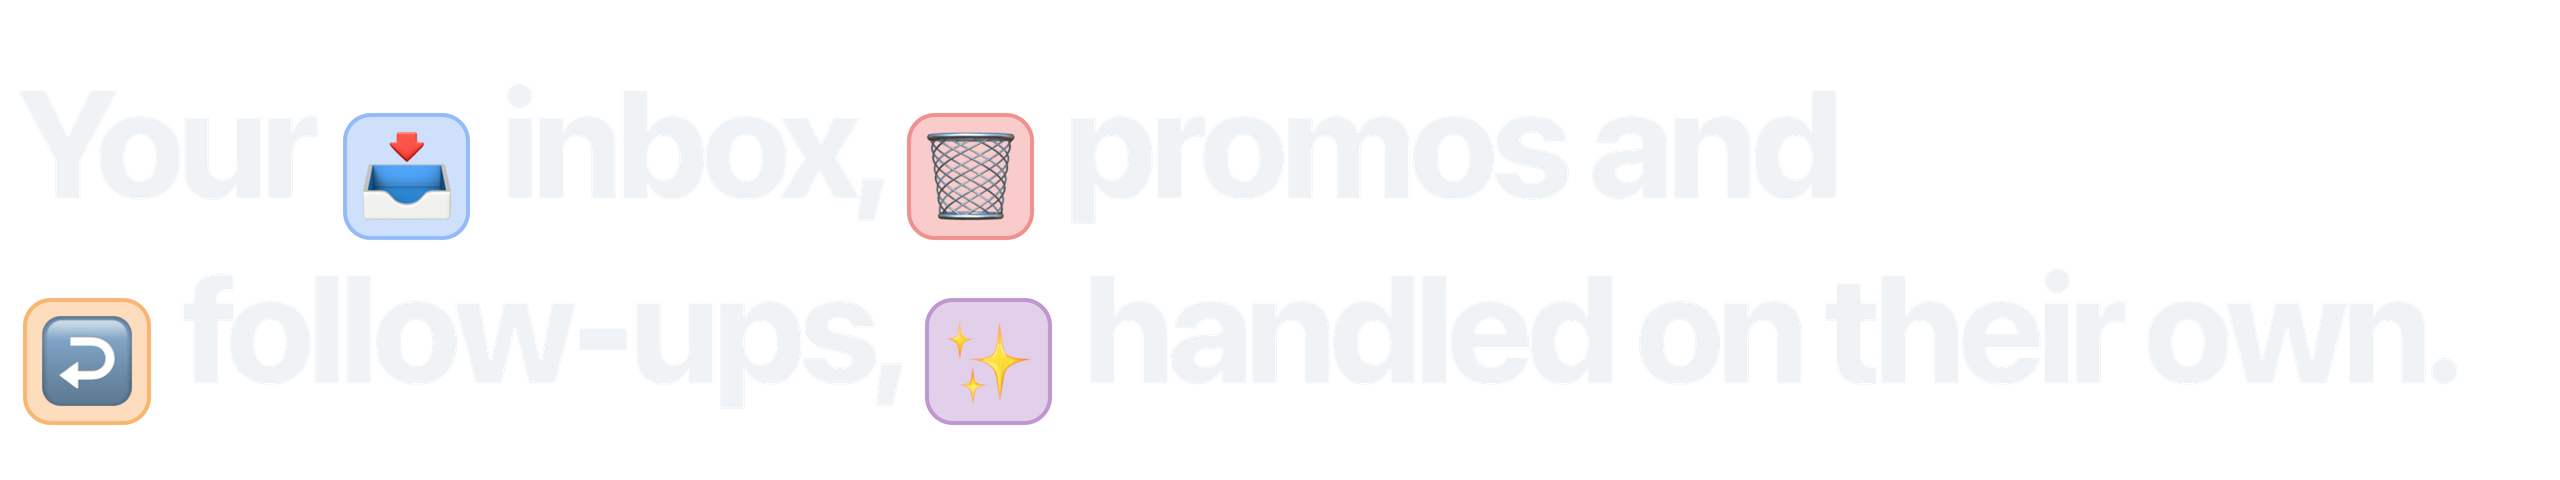
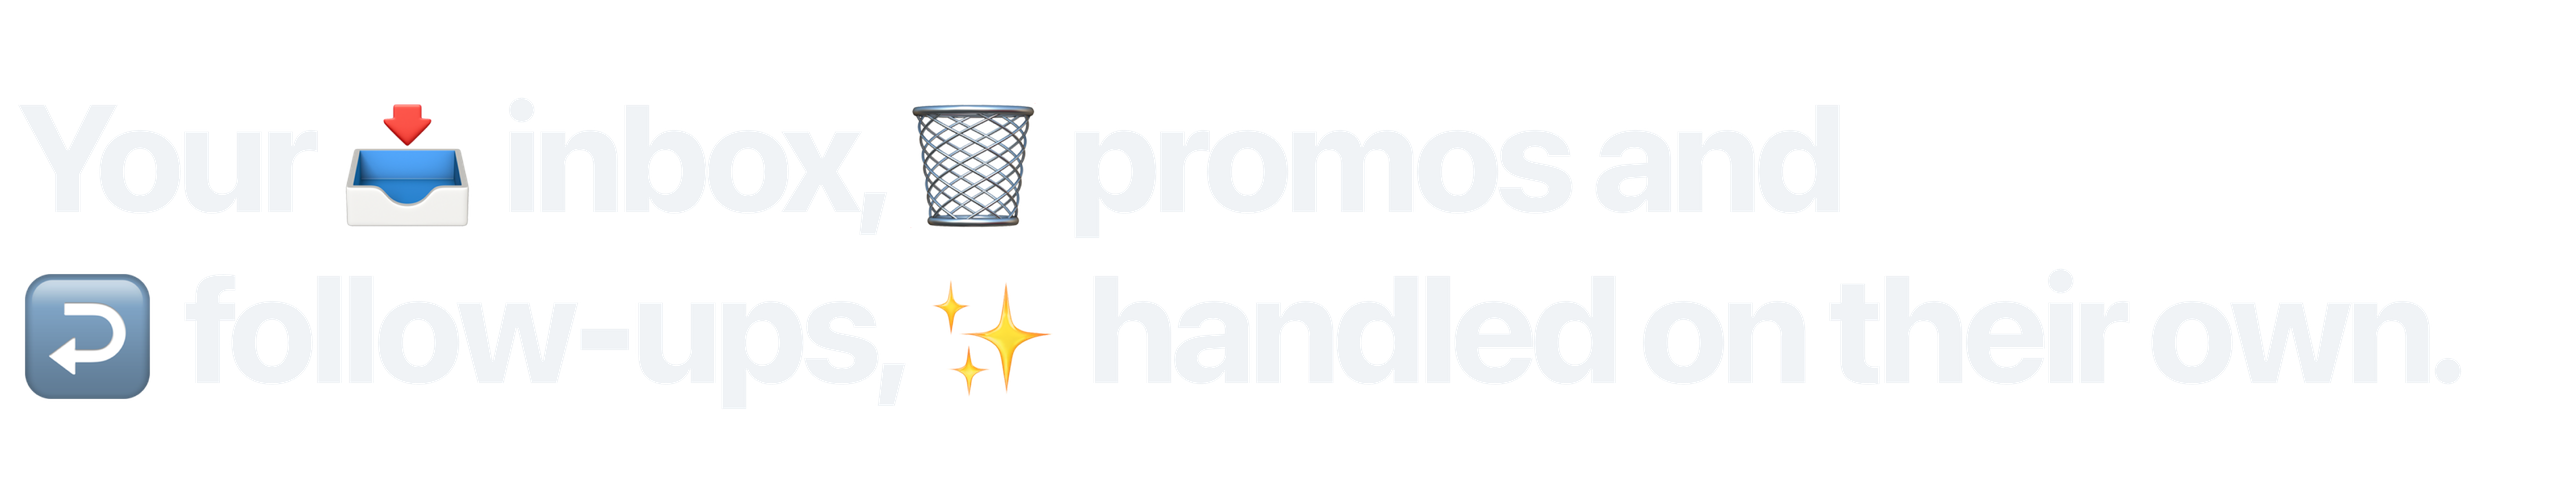
Refine hero and social preview visuals
Headline emoji sit bare at text size instead of in bordered tiles. The
social preview's chips become white pills with each feature's emoji, the
inbox mockup shows all five features instead of three struck-out promos,
and the gray copy uses solid slate tones so it no longer reads muddy on
the gradient.

diff --git a/assets/src/social.html b/assets/src/social.html
@@ -7,11 +7,12 @@
   html, body { width: 1280px; height: 640px; }
   body { background: linear-gradient(135deg, #f4f6fa 0%, #e6eaf1 100%); }
   .copy { position: absolute; left: 72px; top: 0; bottom: 0; width: 580px; display: flex; flex-direction: column; justify-content: center; }
-  .repo { font-family: 'SF Mono', Menlo, monospace; font-size: 22px; color: rgba(0,0,0,.45); margin-bottom: 18px; }
+  .repo { font-family: 'SF Mono', Menlo, monospace; font-size: 22px; color: #6b7688; margin-bottom: 18px; }
   h1.title { font-size: 58px; white-space: nowrap; font-weight: 800; letter-spacing: -0.045em; line-height: 1.14; }
-  .sub { font-size: 23px; color: rgba(0,0,0,.52); margin-top: 20px; line-height: 1.4; }
-  .five { display: flex; gap: 10px; margin-top: 34px; }
-  .five span { font-size: 22px; font-weight: 700; height: 42px; padding: 0 18px; border-radius: 999px; display: flex; align-items: center; color: #fff; }
+  .sub { font-size: 23px; color: #475163; margin-top: 20px; line-height: 1.4; }
+  .five { display: flex; gap: 8px; margin-top: 34px; }
+  .five span { font-size: 20px; font-weight: 650; height: 42px; padding: 0 14px 0 12px; gap: 7px; border-radius: 999px; display: flex; align-items: center; background: #fff; box-shadow: 0 1px 2px rgba(0,0,0,.06), 0 4px 12px rgba(30,50,90,.08); }
+  .five b { font-size: .9em; }
 
   .stage { position: absolute; left: 676px; top: 104px; transform: rotate(-3deg); transform-origin: top left; }
   .window { width: 552px; height: 466px; flex-direction: column; border-radius: 20px; box-shadow: 0 2px 4px rgba(0,0,0,.06), 0 30px 70px rgba(30,50,90,.22); }
@@ -34,14 +35,14 @@
 <body>
   <div class="copy">
     <div class="repo">sryo/GmailTidy</div>
-    <h1 class="title">Your <span class="t" style="--c:var(--hot)"><span>📥</span></span> inbox,<br><span class="t" style="--c:var(--meh)"><span>🗑</span></span> promos and<br><span class="t" style="--c:var(--ping)"><span>↩</span></span> follow-ups,<br><span class="t" style="--c:var(--stash)"><span>✨</span></span> handled on<br>their own.</h1>
+    <h1 class="title">Your <span class="t">📥</span> inbox,<br><span class="t">🗑</span> promos and<br><span class="t">↩</span> follow-ups,<br><span class="t">✨</span> handled on<br>their own.</h1>
     <div class="sub">Gmail inbox zero, as a Google Apps Script. Auto archive, auto delete old emails, follow-up reminders.</div>
     <div class="five">
-      <span style="background:var(--hot)">Hot</span>
-      <span style="background:var(--meh)">Meh</span>
-      <span style="background:var(--ping)">Ping</span>
-      <span style="background:var(--bunch)">Bunch</span>
-      <span style="background:var(--stash)">Stash</span>
+      <span><b>📥</b>Hot</span>
+      <span><b>🗑</b>Meh</span>
+      <span><b>↩</b>Ping</span>
+      <span><b>🏷</b>Bunch</span>
+      <span><b>🪎</b>Stash</span>
     </div>
   </div>
 
@@ -55,6 +56,13 @@
         <span class="dot"></span><span class="imp on"></span>
         <span class="from">Ana Ruiz</span>
         <span class="subj"><b>Contract draft v3</b></span>
+        <span class="chip stash">🪎 Stash</span>
+      </div>
+      <div class="row">
+        <span class="dot"></span><span class="imp on"></span>
+        <span class="from">Leo Park</span>
+        <span class="subj"><b>Lunch Thu?</b></span>
+        <span class="chip bunch">🏷 acme.com</span>
       </div>
       <div class="row">
         <div class="hl"></div>
@@ -73,12 +81,6 @@
         <span class="dot"></span><span class="imp"></span>
         <span class="from">Weekly Byte</span>
         <span class="subj"><b>Issue #212</b></span>
-        <span class="chip trash">🗑</span>
-      </div>
-      <div class="row unread gone">
-        <span class="dot"></span><span class="imp"></span>
-        <span class="from">Flightly</span>
-        <span class="subj"><b>Deals from your city</b></span>
         <span class="chip trash">🗑</span>
       </div>
     </div>

diff --git a/assets/src/base.css b/assets/src/base.css
@@ -55,6 +55,8 @@ body {
 .chip { flex: none; font-size: 11.5px; font-weight: 600; height: 21px; padding: 0 8px; border-radius: 999px; display: inline-flex; align-items: center; gap: 3px; }
 .chip.trash { background: rgba(229, 57, 53, 0.1); color: var(--meh); }
 .chip.ping { background: rgba(245, 124, 0, 0.14); color: #c25e00; }
+.chip.stash { background: rgba(142, 68, 173, 0.1); color: var(--stash); }
+.chip.bunch { background: rgba(67, 160, 71, 0.12); color: #2e7d32; }
 .chip.draft { background: rgba(229, 57, 53, 0.1); color: #c5221f; }
 
 .captions { position: absolute; left: 20px; right: 20px; height: 56px; }
@@ -64,6 +66,5 @@ body {
 .cap b.meh { color: var(--meh); }
 .cap b.ping { color: var(--ping); }
 .cap b.burn { color: var(--text); }
-/* Emoji tile inside a headline, tinted by --c (hero, social preview). */
-.t { display: inline-flex; align-items: center; justify-content: center; width: 1.02em; height: 1.02em; border-radius: 22%; font-size: 0.82em; vertical-align: -0.1em; margin: 0 0.06em; background: color-mix(in srgb, var(--c) 14%, transparent); box-shadow: inset 0 0 0 2px color-mix(in srgb, var(--c) 22%, transparent); }
-.t span { font-size: 0.72em; letter-spacing: 0; }
+/* Emoji inline in a headline (hero, social preview). */
+.t { font-size: 0.82em; letter-spacing: 0; margin: 0 0.04em; }

diff --git a/assets/src/hero.html b/assets/src/hero.html
@@ -9,11 +9,10 @@
   h1 { font-size: 76px; font-weight: 800; letter-spacing: -0.045em; line-height: 1.12; }
   @media (prefers-color-scheme: dark) {
     h1 { color: #f0f3f6; }
-    .t { background: color-mix(in srgb, var(--c) 26%, transparent); box-shadow: inset 0 0 0 2px color-mix(in srgb, var(--c) 40%, transparent); }
   }
 </style>
 </head>
 <body>
-  <h1>Your <span class="t" style="--c:var(--hot)"><span>📥</span></span> inbox, <span class="t" style="--c:var(--meh)"><span>🗑</span></span> promos and<br><span class="t" style="--c:var(--ping)"><span>↩</span></span> follow-ups, <span class="t" style="--c:var(--stash)"><span>✨</span></span> handled on their own.</h1>
+  <h1>Your <span class="t">📥</span> inbox, <span class="t">🗑</span> promos and<br><span class="t">↩</span> follow-ups, <span class="t">✨</span> handled on their own.</h1>
 </body>
 </html>
